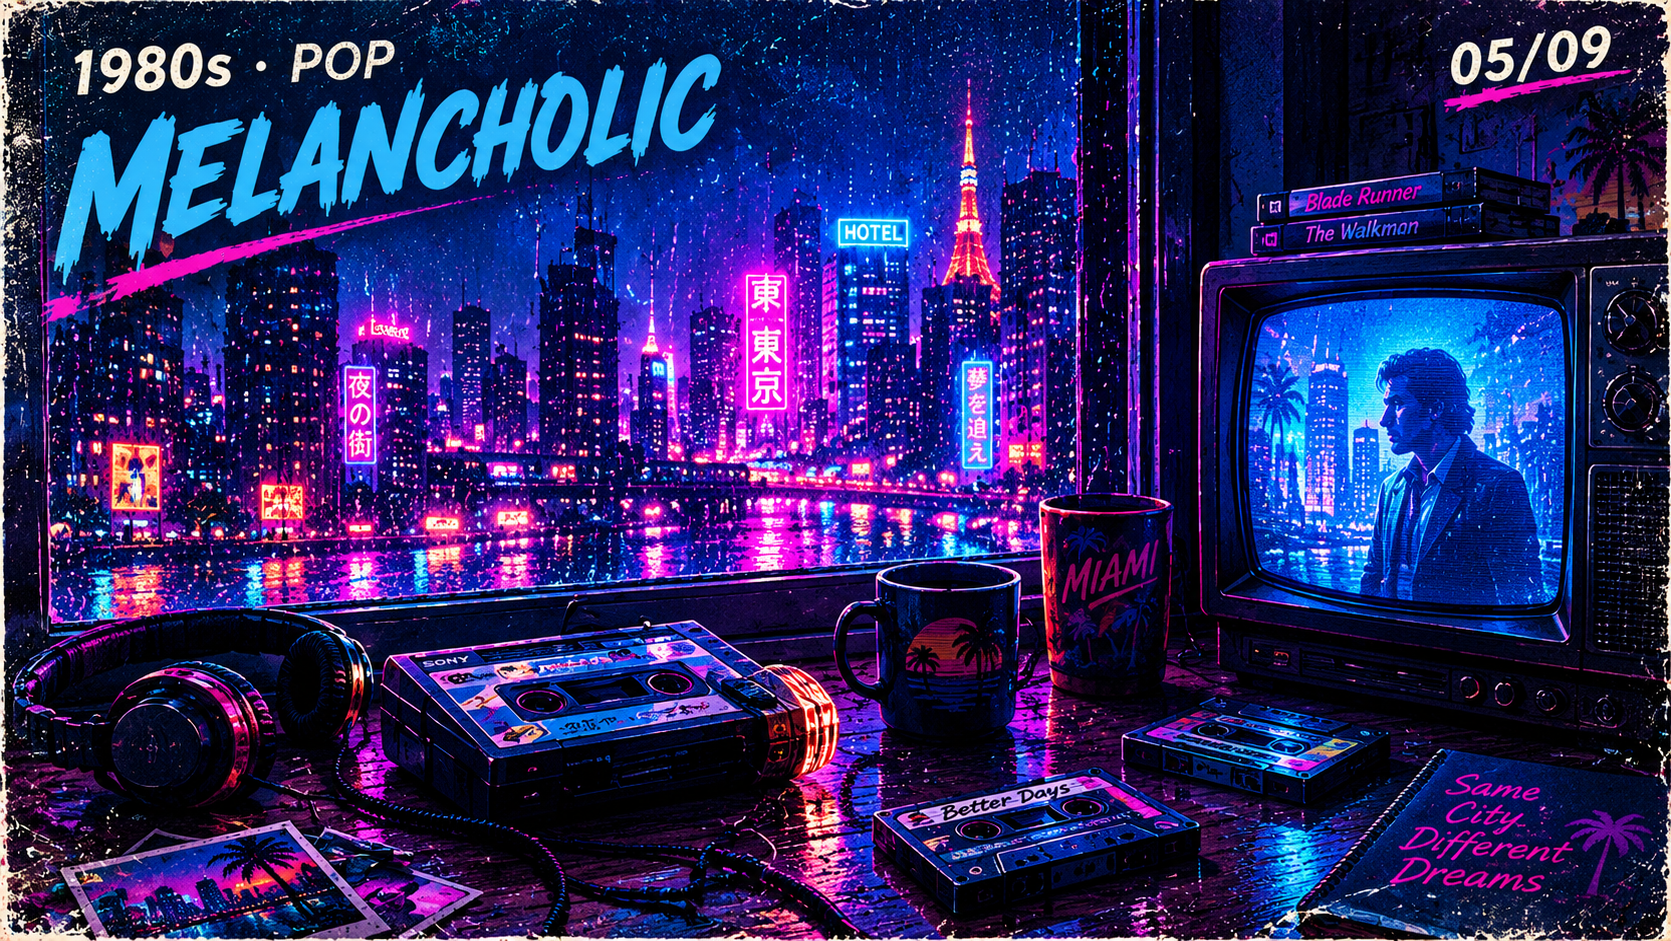
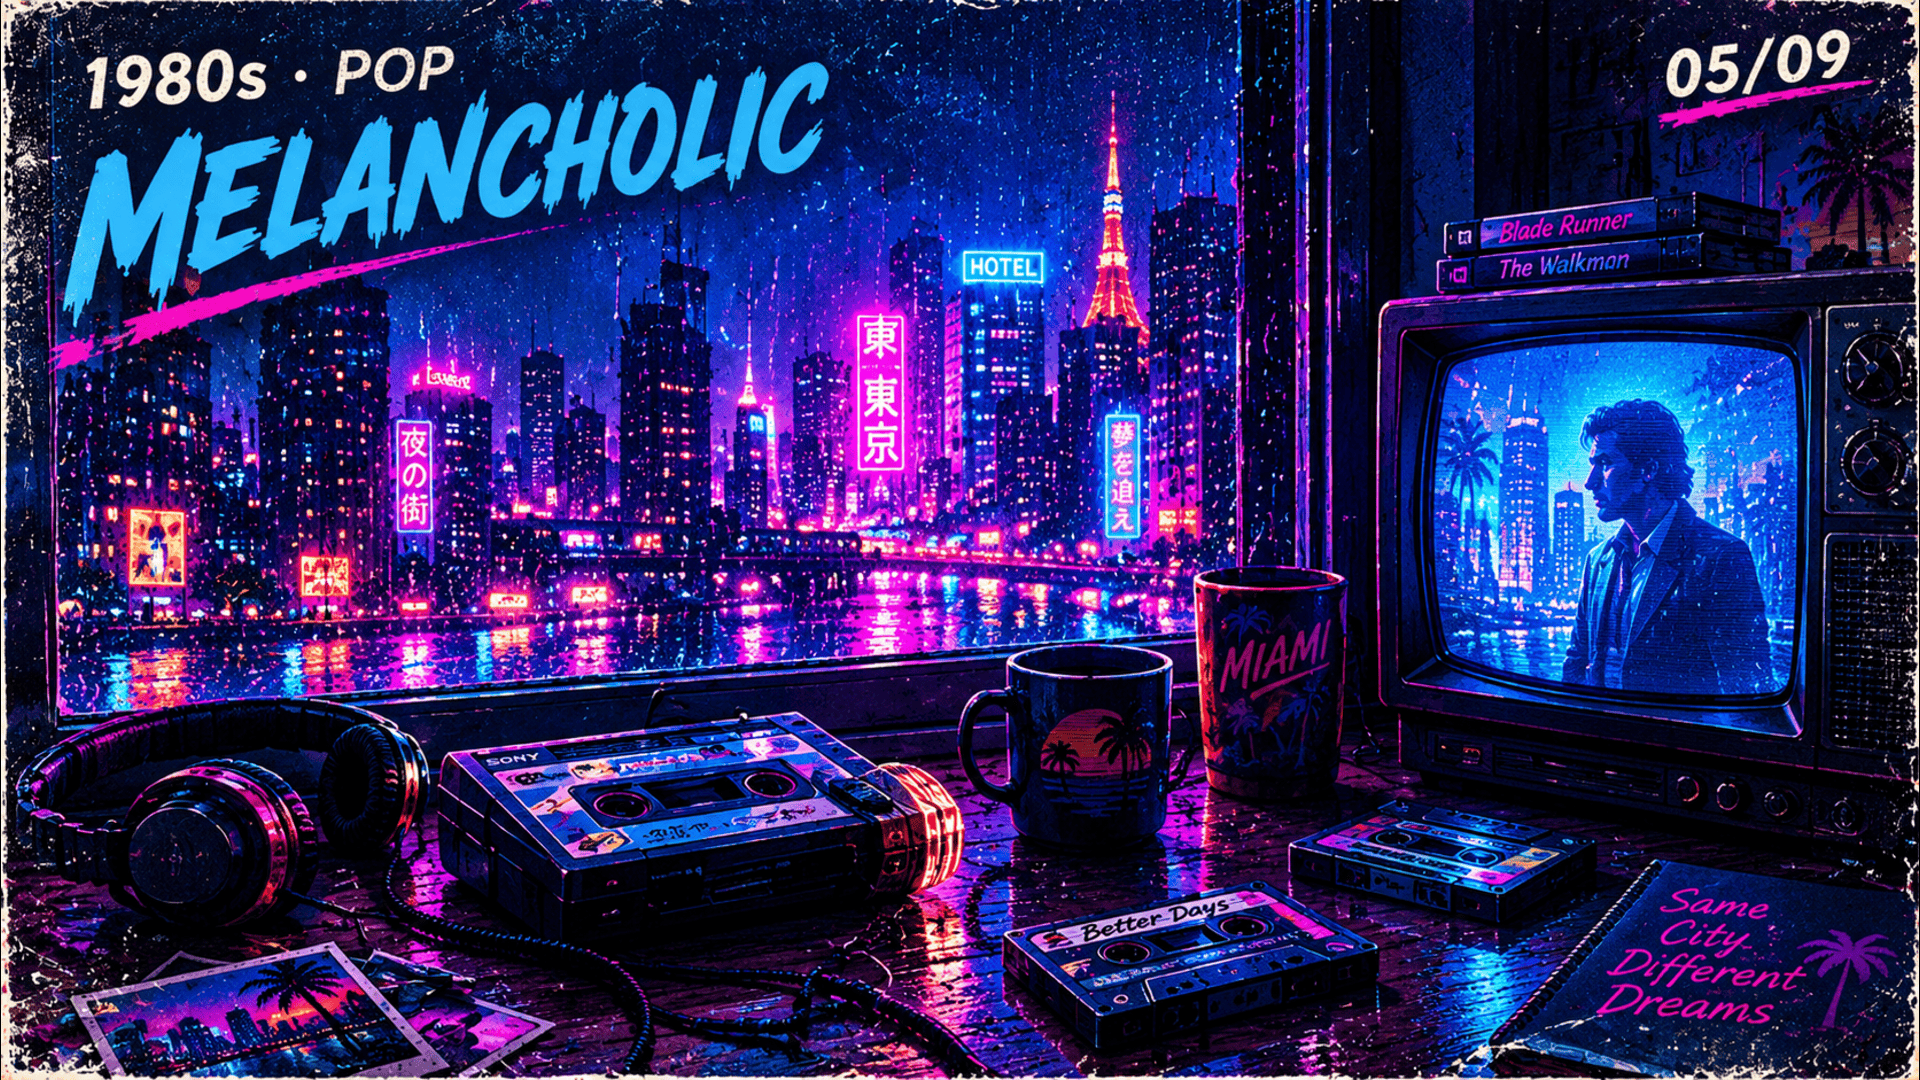
fix(scene): mood-backdrop single visual standard; remove genre room backdrops (Faz 0)

diff --git a/src/components/scene/SceneRoom.tsx b/src/components/scene/SceneRoom.tsx
@@ -1,28 +1,21 @@
 /**
- * SceneRoom — the application's fixed global environment: a carved-wood
- * library interior whose lighting and palette adapt to the music while the
- * furniture itself never moves (Sting Rule II).
+ * SceneRoom — the application's fixed global environment: a mood-lit room
+ * whose backdrop image is driven PURELY by the song's mood (Anal_mimari: mood
+ * is an independent axis, never a fixed genre->mood mapping).
  *
- * The room is a build-time rendered imagery layer (`room-backdrop-<theme>.png`,
- * procedurally generated by `scripts/generate-room-backdrop.mjs` — real
- * raster texture with wood grain, lamp spill and vignette) over the theme's
- * wall gradient as fallback color. No flat CSS/DOM vector furniture is drawn
- * at runtime. The cards stand ON the desk; this module only renders the
- * environment behind them.
+ * The backdrop IMAGE is resolved from `song.mood` via moodBackdropUrl()
+ * (the glob-resolver in `./moodBackdrop`). When the song has no mood yet, or
+ * the mood's file is absent, a neutral default ("dreamy") is used so the room
+ * never renders with an empty frame. Genre does NOT choose the image — it may
+ * only surface as UI text outside this component. The optional theme palette
+ * only tints the base wall wash behind the image (identity, not selection).
  */
 import type { ReactNode } from "react";
 
-import backdropGothic from "@/assets/room-backdrop-gothic.png";
-import backdropGrunge from "@/assets/room-backdrop-grunge.png";
-import backdropHiphop from "@/assets/room-backdrop-hiphop.png";
-import backdropJazz from "@/assets/room-backdrop-jazz.png";
-import backdropReggae from "@/assets/room-backdrop-reggae.png";
-import backdropSoul from "@/assets/room-backdrop-soul.png";
-import backdropSynth from "@/assets/room-backdrop-synth.png";
+import type { Mood } from "@/lib/ai/moodInference";
 
 import { SCENE_PALETTES, type ScenePalette, type SceneThemeId } from "./scenePalettes";
-import { moodBackdropUrl } from "./moodBackdrop";
-import type { Mood } from "@/lib/ai/moodInference";
+import { moodBackdropSlug, moodBackdropUrl } from "./moodBackdrop";
 
 export type { SceneThemeId } from "./scenePalettes";
 export type { ScenePalette as SceneTheme } from "./scenePalettes";
@@ -30,25 +23,21 @@ export type { ScenePalette as SceneTheme } from "./scenePalettes";
 /** Theme palette lookup kept for callers that still resolve colors. */
 export const SCENE_THEMES = SCENE_PALETTES;
 
-const BACKDROPS: Record<SceneThemeId, string> = {
-  gothic: backdropGothic,
-  reggae: backdropReggae,
-  synth: backdropSynth,
-  jazz: backdropJazz,
-  soul: backdropSoul,
-  grunge: backdropGrunge,
-  hiphop: backdropHiphop,
-};
+/**
+ * Neutral fallback mood used whenever a song has no mood (or its backdrop file
+ * is missing). "dreamy" is the least specific mood in MOOD_SET. When a real
+ * per-song mood exists its own image is used instead.
+ */
+const FALLBACK_MOOD: Mood = "Dreamy";
 
 /**
- * The fixed library room. Children render over the desk zone — the backdrop
- * image supplies shelves, desk, lamp and boxes as real texture.
+ * The ambient library room. Children render over the desk zone; the backdrop
+ * image is the single visual standard (mood wallpapers, see moodBackdrop.ts).
  *
  * `mood` (optional): if a mood-specific wallpaper exists
- * (`src/assets/mood-backdrop-<mood>.png`), its IMAGE replaces the genre-themed
- * backdrop IMAGE. Genre still drives the palette below the image (identity kept).
- * When the mood file is missing/absent, the genre/decade backdrop is used — so
- * this is fully backward-compatible while the 9 mood files are still arriving.
+ * (`src/assets/mood-backdrop-<mood>.png`) its IMAGE is shown; otherwise the
+ * neutral `dreamy` image is used. Genre is intentionally never used here to
+ * pick the backdrop.
  */
 export function SceneRoom({
   themeId,
@@ -60,22 +49,20 @@ export function SceneRoom({
   children?: ReactNode;
 }) {
   const theme = SCENE_PALETTES[themeId];
-  const moodImage = moodBackdropUrl(mood);
+  const moodImage = moodBackdropUrl(mood ?? FALLBACK_MOOD);
   return (
     <div
       data-testid={`scene-room-${themeId}`}
       className="pointer-events-none absolute inset-0 overflow-hidden"
       style={{ background: `linear-gradient(to bottom, ${theme.wall[0]}, ${theme.wall[1]})` }}
     >
-      {/* Rendered room backdrop — carved wood shelves, desk, lamp, boxes. */}
+      {/* Mood wallpaper — the sole visual backdrop standard (genre not used). */}
       <span
         aria-hidden
-        data-testid={`scene-backdrop-${themeId}`}
+        data-testid={`scene-backdrop-${moodBackdropSlug(mood ?? FALLBACK_MOOD)}`}
         className="absolute inset-0"
         style={{
-          // moodImage (mood wallpaper) wins when its file exists; otherwise the
-          // genre/decade backdrop. See moodBackdrop.ts for the missing-file fallback.
-          backgroundImage: `url(${moodImage ?? BACKDROPS[themeId]})`,
+          backgroundImage: `url(${moodImage})`,
           backgroundSize: "cover",
           backgroundPosition: "center",
         }}

diff --git a/src/components/scene/moodBackdrop.ts b/src/components/scene/moodBackdrop.ts
@@ -1,22 +1,19 @@
 /**
  * Mood-backdrop selection — places the 9 mood wallpapers into SceneRoom.
  *
- * PLACEHOLDER SKELETON (2026-09-16): the actual image files do NOT exist yet.
- * The user is generating 9 mood visuals with ChatGPT (MOOD_SET: Energetic,
- * Euphoric, Playful, Romantic, Melancholic, Dreamy, Nostalgic, Dark, World)
- * to arrive as `src/assets/mood-backdrop-{mood}.png` (lowercase).
+ * Background standard (since 2026-09-17): the 9 mood visuals ship as
+ * `src/assets/mood-backdrop-{slug}.png` (1920x1080) and are the SINGLE
+ * visual backdrop for the room. SceneRoom resolves its image purely from
+ * `song.mood`; a missing mood falls back to the neutral "dreamy" wallpaper
+ * inside SceneRoom, never to a genre image.
  *
- * CRITICAL — missing-file safety: this module uses Vite `import.meta.glob` (NOT a
- * plain static `import ... from`). With plain static imports Vite FAILS the build
- * with "Failed to resolve import" if the file is missing. With glob, a glob that
- * matches NO files simply yields NO keys — no build/dev error, and the caller
- * (SceneRoom) falls back to the existing genre-themed backdrop. Real files dropped
- * into src/assets are picked up automatically with NO further import edits.
+ * Missing-file safety: this module uses Vite `import.meta.glob` (NOT a plain
+ * static `import ... from`). A glob that matches NO files yields NO keys (no
+ * build/dev error); real files dropped into src/assets are picked up
+ * automatically with NO further import edits.
  *
- * Design decision (2b, from the approved plan): mood selects the BACKDROP IMAGE,
- * replacing the genre/decade choice for that layer. Genre still drives palette
- * (ScenePalette) — visual identity preserved; missing mood file keeps the genre
- * backdrop, so nothing regresses while files are still arriving.
+ * Genre never selects the image (mood is an independent axis); genre may only
+ * surface as UI text outside this component.
  */
 import type { Mood } from "@/lib/ai/moodInference";
 

diff --git a/src/components/scene/SceneRoom.test.tsx b/src/components/scene/SceneRoom.test.tsx
@@ -22,23 +22,32 @@ function song(overrides: Partial<Song> = {}): Song {
 }
 
 describe("SceneRoom — the fixed global library environment", () => {
-  it("renders the rendered room backdrop image in every theme (no flat DOM vectors)", () => {
+  it("shows the neutral dreamy mood backdrop by default when a song has no mood", () => {
     for (const themeId of Object.keys(SCENE_THEMES)) {
       const { container, unmount } = render(
         <SceneRoom themeId={themeId as keyof typeof SCENE_THEMES} />,
       );
       expect(screen.getByTestId(`scene-room-${themeId}`)).toBeTruthy();
       const backdrop = container.querySelector(
-        `[data-testid='scene-backdrop-${themeId}']`,
+        `[data-testid='scene-backdrop-dreamy']`,
       ) as HTMLElement;
       expect(backdrop).toBeTruthy();
-      // Build-time rendered PNG texture (carved wood + lamp light), cover-fitted.
-      expect(backdrop.style.backgroundImage).toContain(`room-backdrop-${themeId}`);
+      // Backdrop is mood-driven only: dreamy is the neutral default (no genre image).
+      expect(backdrop.style.backgroundImage).toContain("mood-backdrop-dreamy");
       expect(backdrop.style.backgroundSize).toBe("cover");
       // No runtime DOM furniture vector elements are drawn.
       expect(container.querySelectorAll("[aria-hidden]").length).toBeLessThan(5);
       unmount();
     }
+  });
+
+  it("uses the song's mood backdrop when a mood is present (genre never selects the image)", () => {
+    const { container } = render(<SceneRoom themeId="synth" mood="dark" />);
+    const backdrop = container.querySelector(
+      `[data-testid='scene-backdrop-dark']`,
+    ) as HTMLElement;
+    expect(backdrop).toBeTruthy();
+    expect(backdrop.style.backgroundImage).toContain("mood-backdrop-dark");
   });
 
   it("paints the fallback wall gradient from the theme palette", () => {

diff --git a/src/routes/results.tsx b/src/routes/results.tsx
@@ -27,7 +27,7 @@ import { generatePoeticAnalysis } from "@/lib/llm/generateAnalysis.server";
 import { themeFromAnalysis } from "@/lib/soundmap/posterTheme";
 import { GeneratedPoster } from "@/components/results/GeneratedPoster";
 import { posterToDataUrl } from "@/lib/ai/posterRenderer";
-import posterPreview from "@/assets/poster-preview.jpg";
+import posterBackdrop from "@/assets/mood-backdrop-dreamy.png";
 
 
 const PosterLightbox = lazy(() => import("@/components/results/PosterLightbox"));
@@ -667,7 +667,7 @@ function ResultsPage() {
                 />
               ) : (
                 <img
-                  src={posterPreview}
+                  src={posterBackdrop}
                   alt={t.results.posterAlt}
                   loading="lazy"
                   className="w-full rounded-[1.5rem] object-cover"

diff --git a/src/components/landing/PreviewSection.tsx b/src/components/landing/PreviewSection.tsx
@@ -1,5 +1,5 @@
 import { AnimatedSection } from "@/components/AnimatedSection";
-import posterPreview from "@/assets/poster-preview.jpg";
+import previewBackdrop from "@/assets/mood-backdrop-dreamy.png";
 
 export default function PreviewSection() {
   return (
@@ -7,7 +7,7 @@ export default function PreviewSection() {
       <AnimatedSection className="relative mx-auto max-w-5xl overflow-hidden rounded-[2.5rem] border border-border/50 bg-card/20 shadow-2xl">
         <div className="group relative aspect-square md:aspect-[16/10]">
           <img
-            src={posterPreview}
+            src={previewBackdrop}
             alt="Example SoundMap poster"
             width={1024}
             height={1024}

diff --git a/src/components/results/PosterLightbox.tsx b/src/components/results/PosterLightbox.tsx
@@ -1,6 +1,6 @@
 import { X } from "lucide-react";
 
-import posterPreview from "@/assets/poster-preview.jpg";
+import previewBackdrop from "@/assets/mood-backdrop-dreamy.png";
 import { resolvePosterTheme, type PosterTheme } from "@/lib/soundmap/posterTheme";
 
 /**
@@ -46,7 +46,7 @@ export default function PosterLightbox({
         }}
       >
         <img
-          src={posterPreview}
+          src={previewBackdrop}
           alt="Fullscreen cinematic poster of your personal SoundMap"
           className="max-h-[82vh] max-w-full rounded-[1.25rem] object-contain"
           onClick={(e) => e.stopPropagation()}
